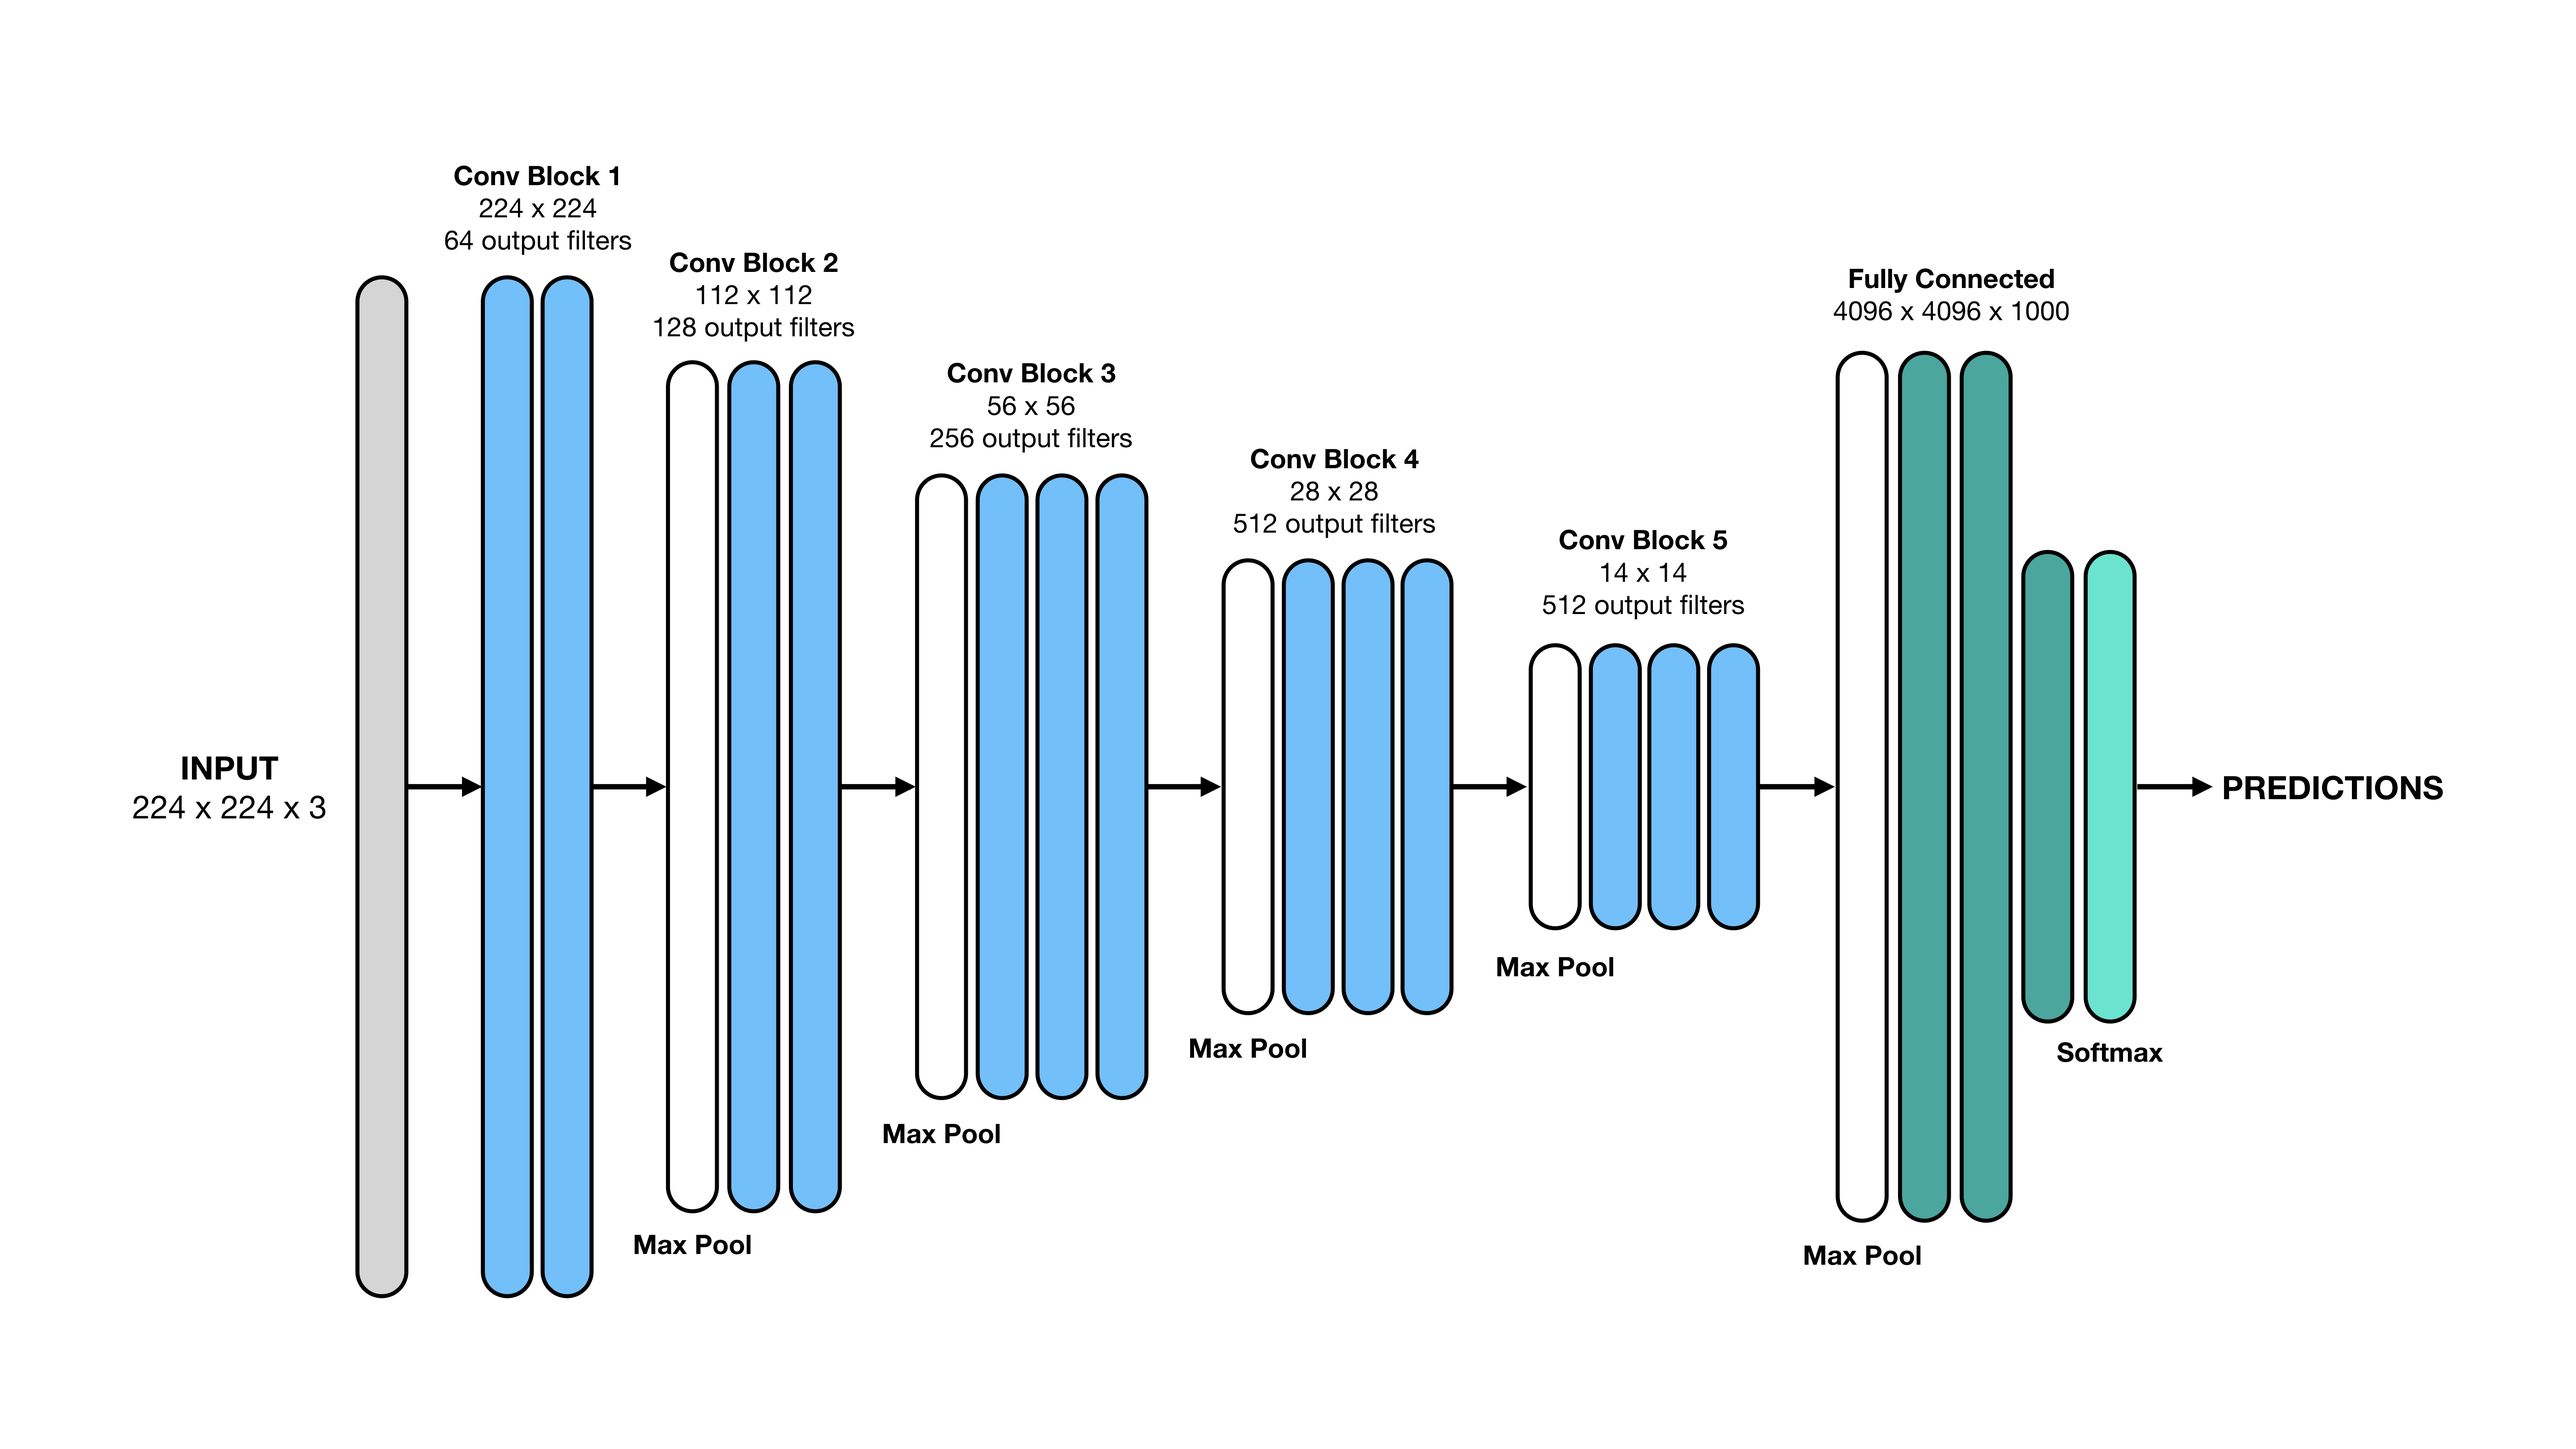
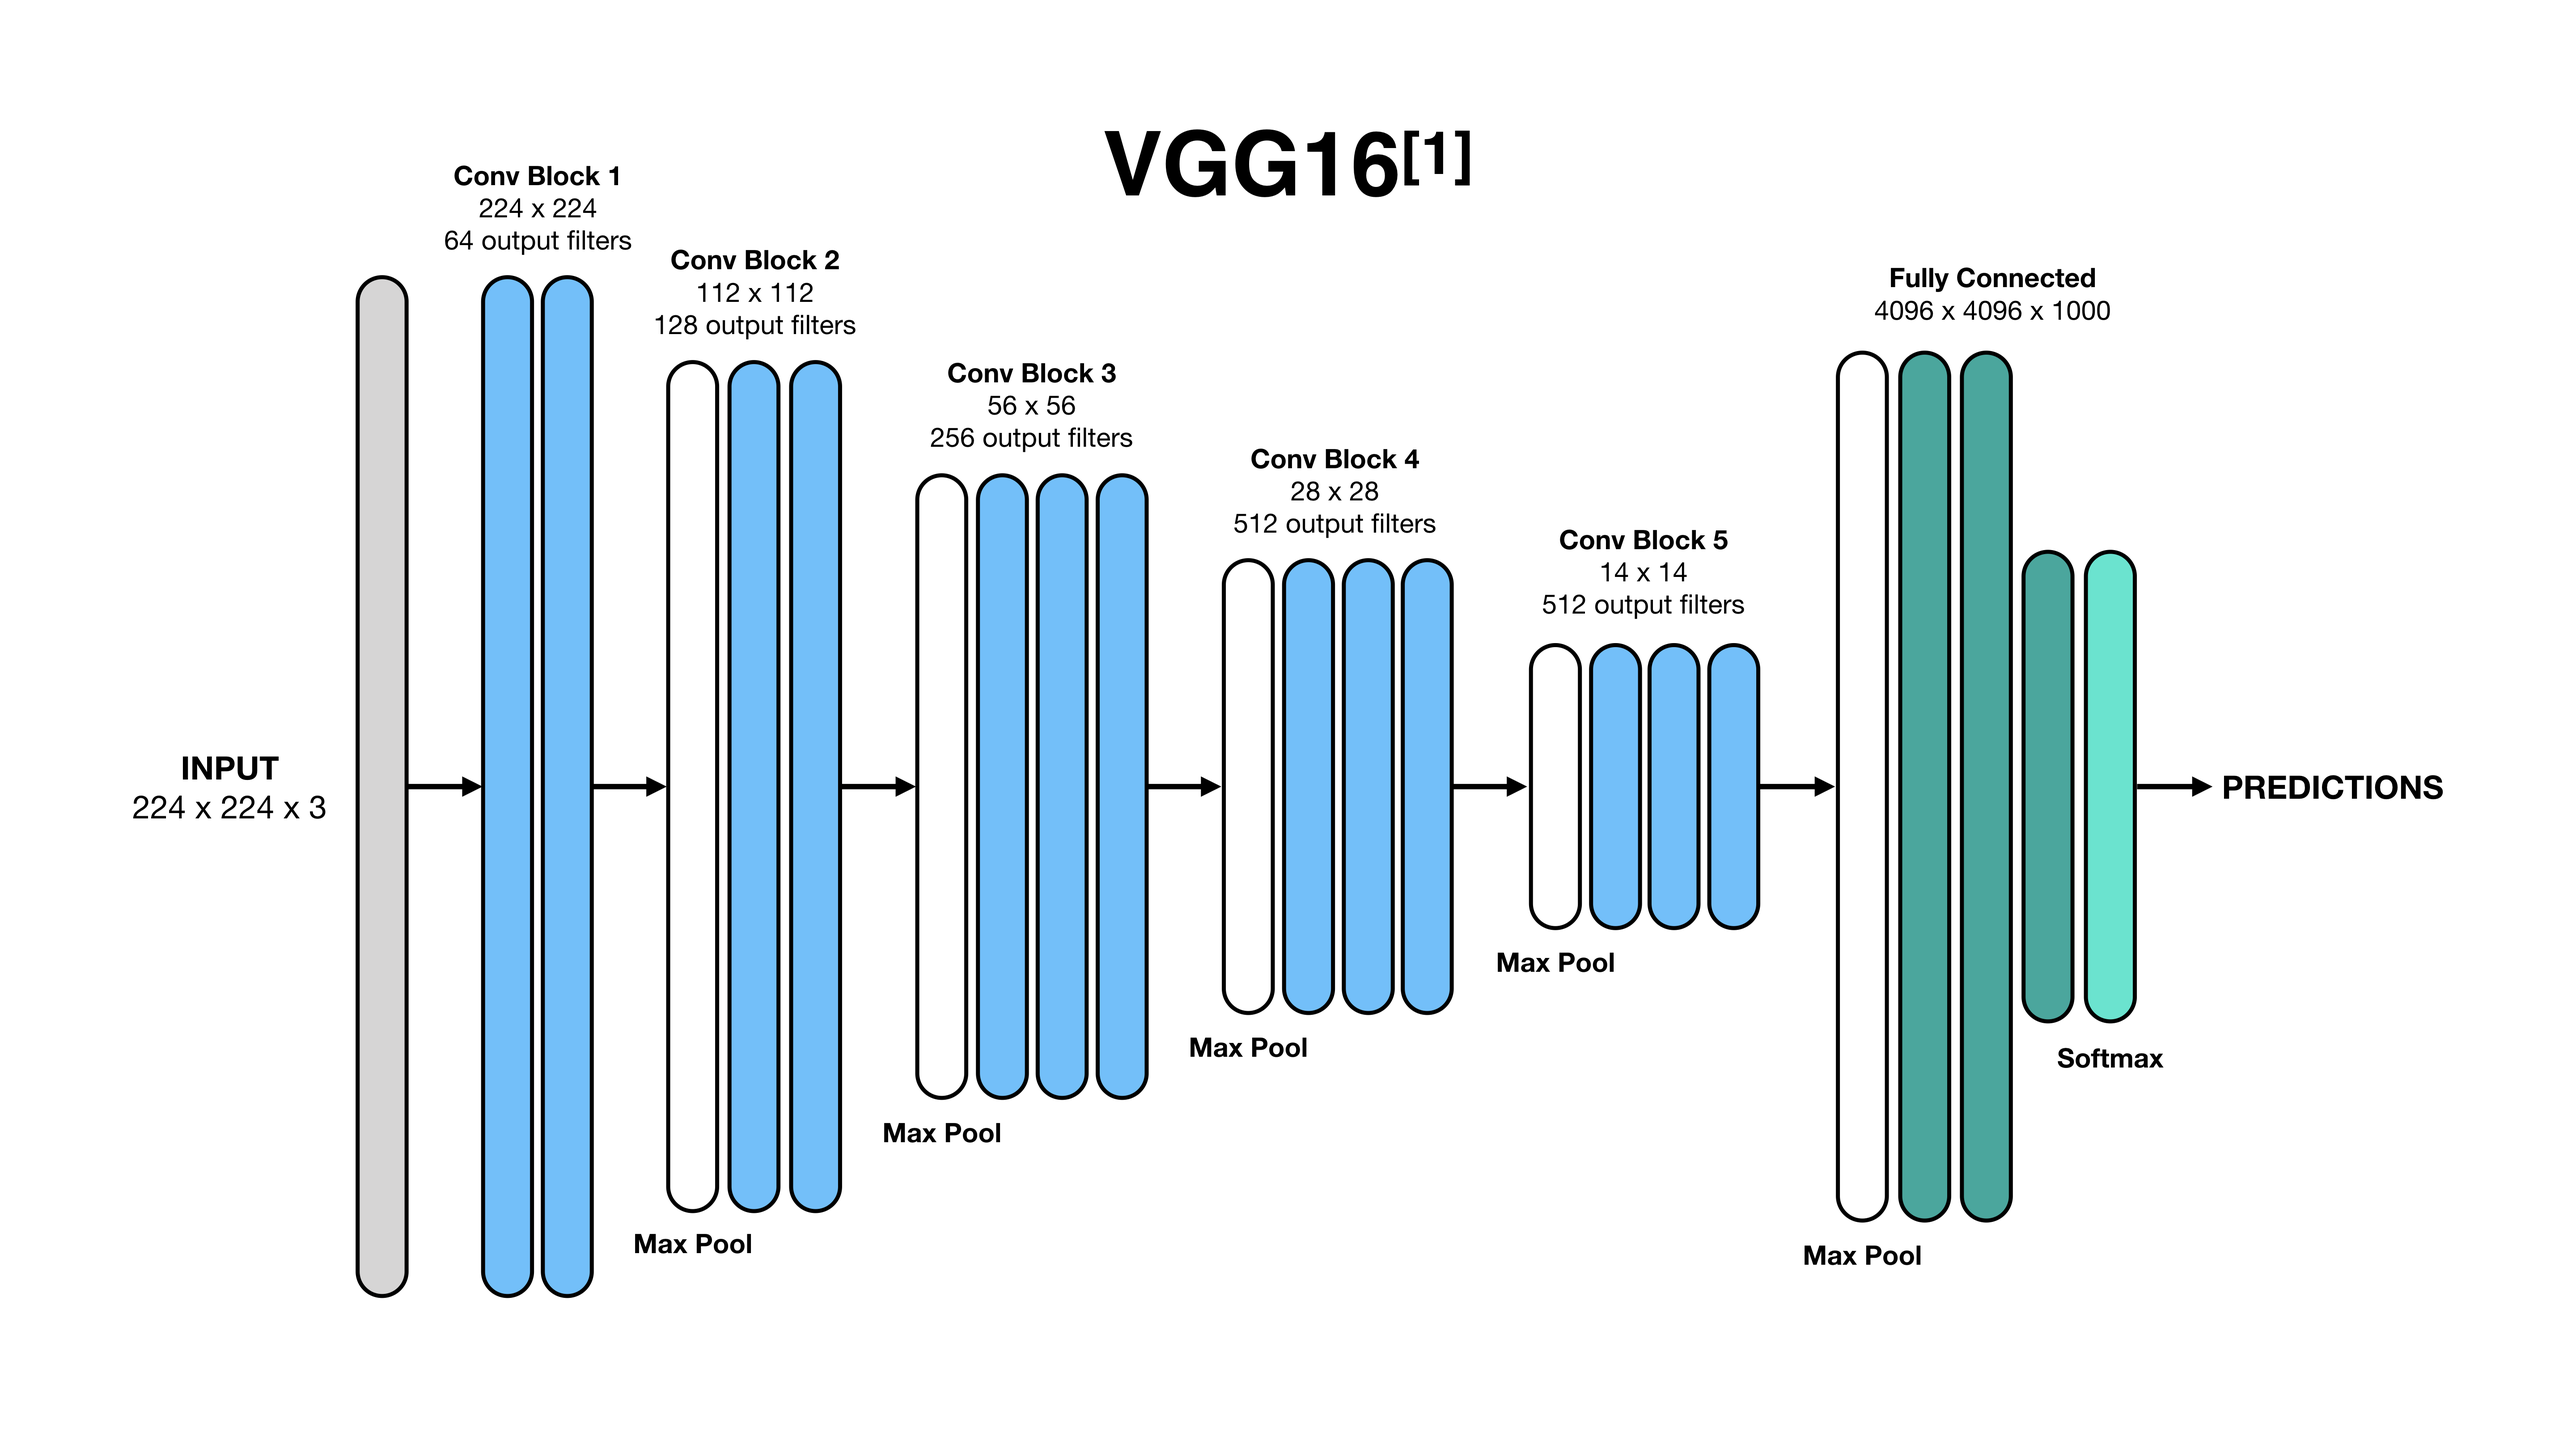
GDO

diff --git a/app/templates/network_structure.html b/app/templates/network_structure.html
@@ -8,23 +8,14 @@
     }
     .imgbox {
         display: grid;
-        height: 80%;
+        height: 100%;
     }
     .center-fit {
         max-width: 100%;
         max-height: 100vh;
         margin: auto;
     }
-
-    sup { 
-        vertical-align: sup;
-        font-size: 2;
-    }
 </style>
-
-<center>
-    <p style="font-size: 6vh"><b>VGG16<sup>[1]</sup></b></p>
-</center>
 
 <div class="imgbox">
     <img class="center-fit" src="/static/network_structure.png">
